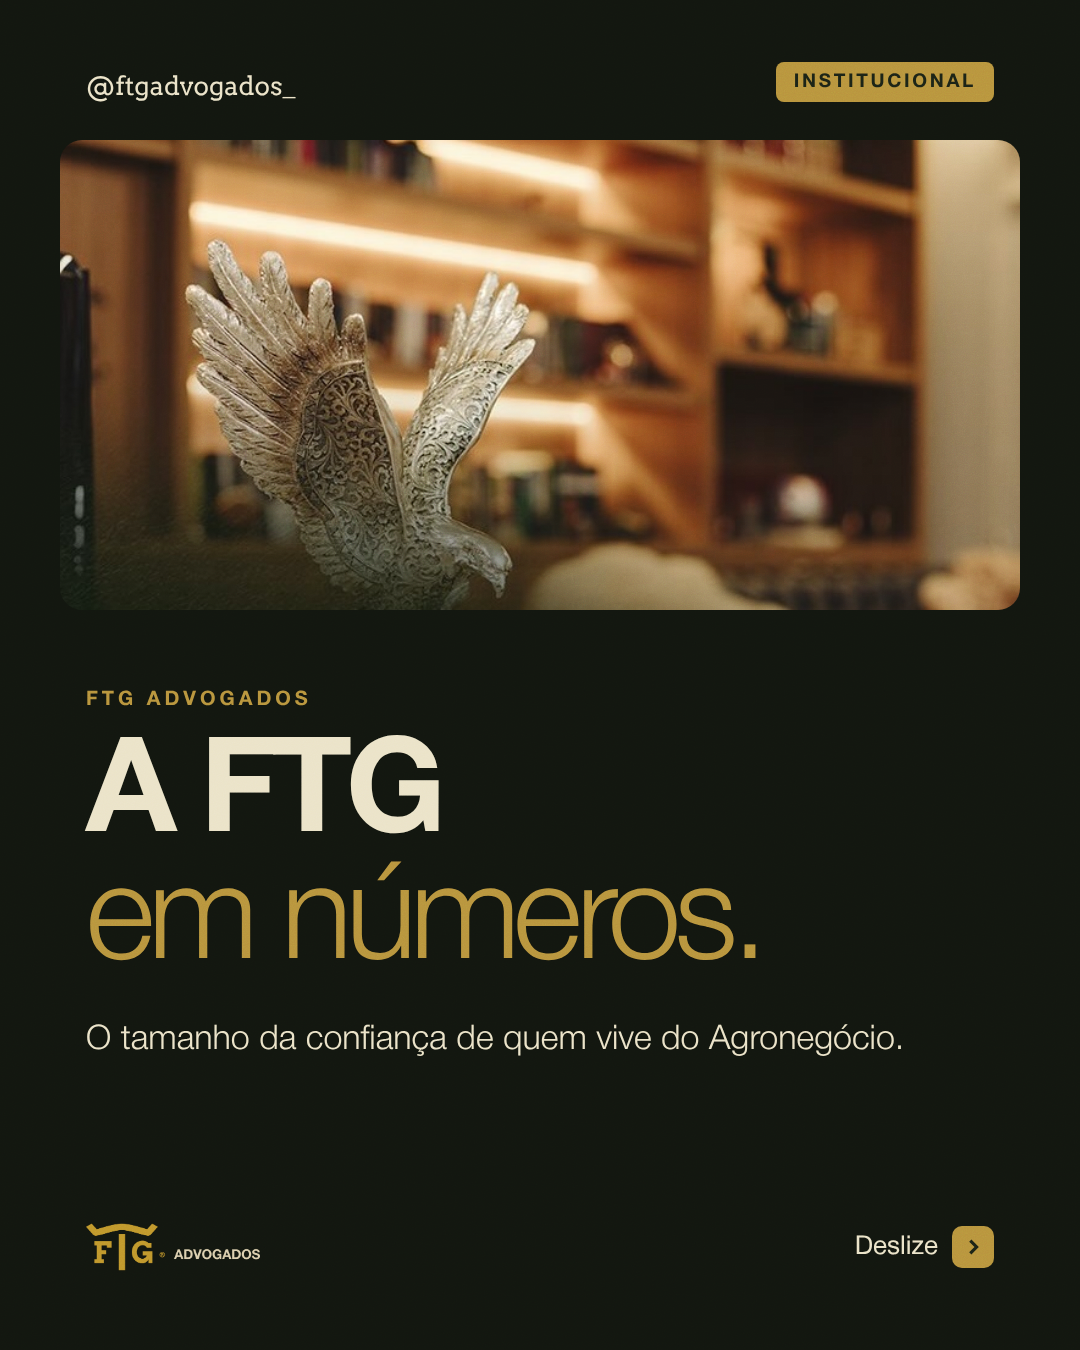
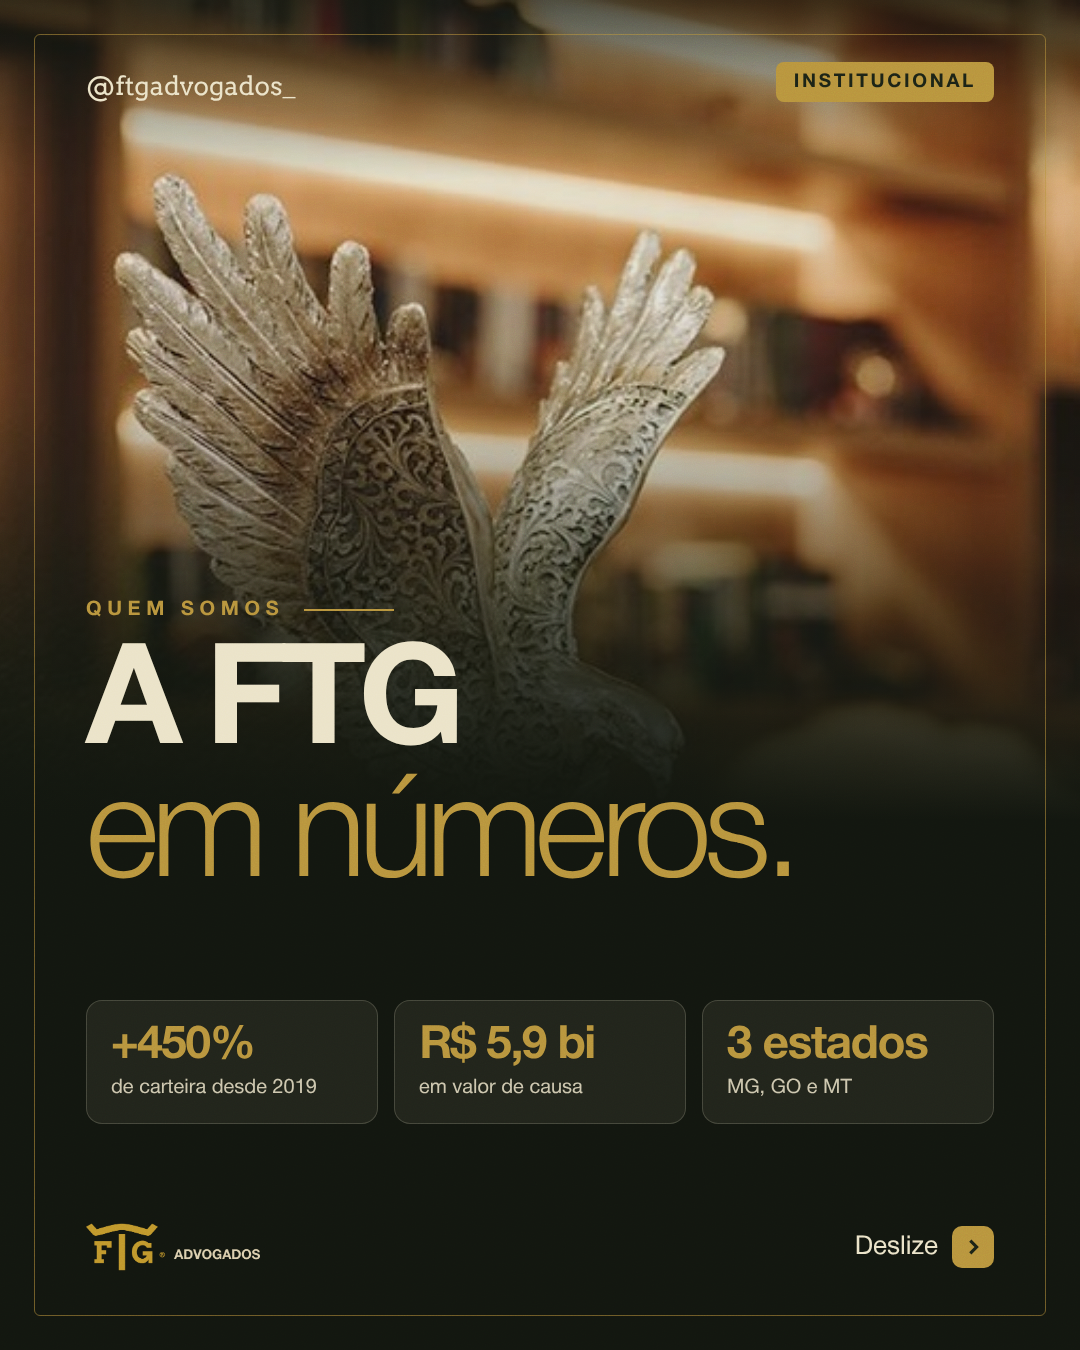
A FTG em números: capa nova
Claude-Session: https://claude.ai/code/session_01P4d7pDXSyhkanGB3aZGg4D

diff --git a/docs/gorayeb/modelos/ftg-em-numeros.html b/docs/gorayeb/modelos/ftg-em-numeros.html
@@ -23,6 +23,18 @@
 #g1 .sub{font:300 34px/1.4 HN;margin-top:30px;width:860px}
 #g1 .desl{display:flex;align-items:center;gap:14px;font:400 26px HN}
 #g1 .desl i{width:42px;height:42px;border-radius:10px;background:#b8943d;display:flex;align-items:center;justify-content:center}
+#g1 .full{position:absolute;top:0;left:0;width:100%;height:820px;object-fit:cover;object-position:30% 50%}
+#g1 .veu1{position:absolute;left:0;right:0;top:0;height:820px;background:linear-gradient(180deg,rgba(18,22,15,.75) 0,rgba(18,22,15,.1) 22%,rgba(18,22,15,.15) 50%,#12160f 100%)}
+#g1 .moldura{position:absolute;inset:34px;border:1.5px solid rgba(184,148,61,.55);border-radius:6px;z-index:4;pointer-events:none}
+#g1 .selo{position:absolute;top:62px;right:86px;z-index:3}
+#g1 .bl{position:absolute;left:86px;right:86px;top:600px;z-index:3}
+#g1 .kick{display:flex;align-items:center;gap:20px;font:700 20px HN;letter-spacing:.28em;text-transform:uppercase;color:#b8943d}
+#g1 .kick::after{content:"";width:90px;height:1.5px;background:#b8943d}
+#g1 h1{font:700 140px/0.94 HN;letter-spacing:-.055em;margin-top:22px} #g1 h1 span{color:#b8943d;font-weight:300}
+#g1 .stats{position:absolute;left:86px;right:86px;top:1000px;display:flex;gap:16px;z-index:3}
+#g1 .stats div{flex:1;padding:22px 24px;border-radius:16px;background:rgba(235,227,200,.07);border:1.5px solid rgba(235,227,200,.18)}
+#g1 .stats b{display:block;font:700 46px HN;letter-spacing:-.03em;color:#b8943d} #g1 .stats i{display:block;font:normal 400 20px/1.3 HN;margin-top:6px;opacity:.85}
+#g1 .pe{z-index:3}
 /* 2 */
 #g2 .foto{position:absolute;top:0;left:0;width:100%;height:520px;object-fit:cover}
 #g2 .veu{position:absolute;left:0;right:0;top:0;height:520px;background:linear-gradient(180deg,rgba(18,22,15,.85) 0,rgba(18,22,15,.2) 25%,rgba(18,22,15,.2) 55%,#12160f 100%)}
@@ -69,10 +81,9 @@
 #g5 h1{position:absolute;left:86px;right:86px;top:236px;font:300 88px/1.06 HN;letter-spacing:-.04em} #g5 h1 b{font-weight:700;color:#b8943d}
 #g5 .pe{z-index:3}
 </style></head><body>
-<div class="s" id="g1"><div class="arroba">@ftgadvogados_</div><span class="tag selo">Institucional</span>
- <img class="cartao" src="file:///tmp/claude-0/-home-user/26273b3c-5a63-5858-8d58-9c11ac53aa52/scratchpad/ig/foto01.jpg">
- <div class="bloco"><div class="kicker">FTG Advogados</div><h1>A FTG<br><span>em números.</span></h1>
- <p class="sub">O tamanho da confiança de quem vive do Agronegócio.</p></div>
+<div class="s" id="g1"><img class="full" src="file:///tmp/claude-0/-home-user/26273b3c-5a63-5858-8d58-9c11ac53aa52/scratchpad/ig/foto01.jpg"><div class="veu1"></div><div class="moldura"></div><div class="arroba" style="z-index:3">@ftgadvogados_</div><span class="tag selo">Institucional</span>
+ <div class="bl"><div class="kick">Quem somos</div><h1>A FTG<br><span>em números.</span></h1></div>
+ <div class="stats"><div><b>+450%</b><i>de carteira desde 2019</i></div><div><b>R$ 5,9 bi</b><i>em valor de causa</i></div><div><b>3 estados</b><i>MG, GO e MT</i></div></div>
  <div class="pe"><img src="file:///home/user/calendario/docs/gorayeb/assets/logo-horizontal-claro.png"><span class="desl" style="opacity:1">Deslize <i><svg width="18" height="18" viewBox="0 0 20 20"><path d="M7 3 L14 10 L7 17" fill="none" stroke="#1b2316" stroke-width="3.5"/></svg></i></span></div></div>
 <div class="s" id="g2"><img class="foto" src="file:///tmp/claude-0/-home-user/26273b3c-5a63-5858-8d58-9c11ac53aa52/scratchpad/ig/foto02.jpg"><div class="veu"></div><div class="arroba">@ftgadvogados_</div>
  <div class="num">+450%</div><div class="leit">de crescimento da carteira desde 2019.</div>
